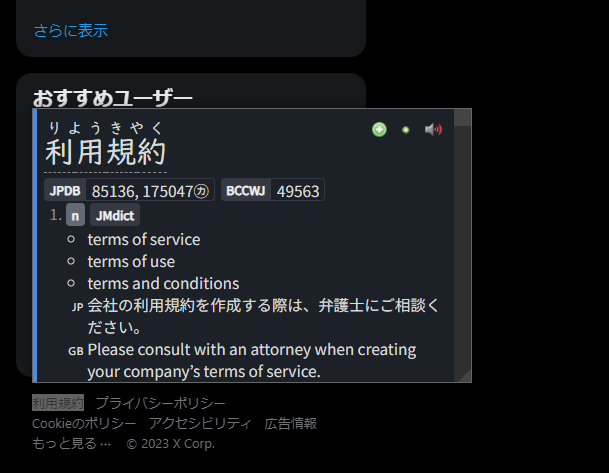
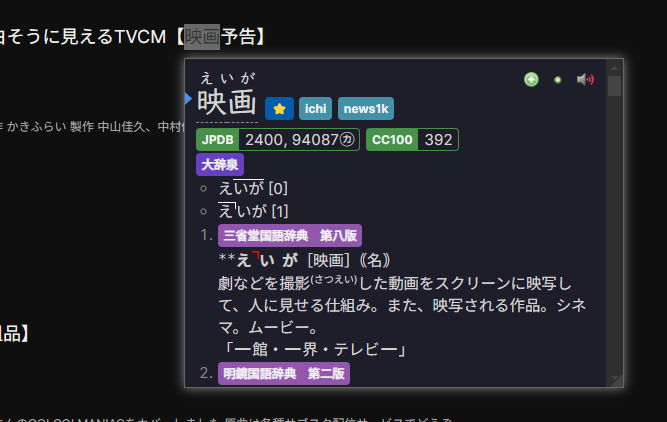
Update Yomitan appearance

diff --git a/README.md b/README.md
@@ -184,49 +184,21 @@ Just copy and paste the following CSS into Yomichan's custom CSS.
 
 ```css
 body {
-  font-family: "Noto Sans JP", sans-serif;
+  font-family: "Inter", "Noto Sans JP", sans-serif;
+  --background-color: #1e1e2a;
+  --input-background-color: color-mix(
+    in srgb,
+    var(--background-color),
+    #fff 5%
+  );
 }
 
 .headword {
-  font-family: "UD Digi Kyokasho N-R";
-}
-
-:root[data-theme="dark"] {
-  --text-color: #dadada;
-  --background-color: #1c2127;
-  --accent-color: #4c8ce6;
-  --accent-color-lighter: #3566ab;
-  --tag-pronunciation-dictionary-background-color: #353942;
-  --tag-dictionary-background-color: #353942;
-  --tag-frequency-background-color: #353942;
-  --tag-default-background-color: #636a72;
-  --tag-name-background-color: #636a72;
-  --tag-expression-background-color: #636a72;
-  --tag-popular-background-color: #1d4f96;
-  --tag-frequent-background-color: #3e6db0;
-  --tag-archaism-background-color: #533642;
-  --tag-part-of-speech-background-color: #636a72;
-  --input-background-color: #24292f;
-  --link-color: #79a9ec;
-}
-
-/* Fix quotes (https://aquafina-water-bottle.github.io/jp-mining-note/jpresources/#ensuring-properly-quotes-the-text) */
-.jp-quote-text {
-  text-indent: -1em;
-  padding-left: 1em;
-}
-
-/* Only show NHK pitch when アクセント辞典 doesn't have data */
-:not(ol[data-count="1"]) > li.pronunciation-group[data-dictionary="NHK"] {
-  display: none;
-}
-ol.pronunciation-group-list[data-count="2"] {
-  list-style: none;
-  padding: 0;
+  font-family: "UD Digi Kyokasho N";
 }
 
 /* Disable furigana on search page */
-ruby.query-parser-segment > rt.query-parser-segment-reading {
+rt.query-parser-segment-reading {
   display: none;
 }
 
@@ -262,6 +234,27 @@ ruby.query-parser-segment > rt.query-parser-segment-reading {
   content: " | ";
 }
 
+/* Collapse Jitendex entries */
+.definition-item[data-dictionary*="Jitendex"] .gloss-sc-ul {
+  list-style: none;
+  display: inline;
+  padding-left: 0;
+}
+.definition-item[data-dictionary*="Jitendex"] .gloss-sc-ul > .gloss-sc-li {
+  display: inline;
+}
+.definition-item[data-dictionary*="Jitendex"]
+  .gloss-sc-ul
+  > .gloss-sc-li:not(:last-child)::after {
+  content: "; ";
+}
+
+/* Make Jitendex example sentences smaller */
+.definition-item[data-dictionary*="Jitendex"]
+  *[data-sc-content="example-sentence-a"] {
+  font-size: 1em !important;
+}
+
 /* Only show summary for Pixiv */
 [data-sc-pixiv="children"],
 [data-sc-pixiv="related-tags"],
@@ -270,13 +263,31 @@ ruby.query-parser-segment > rt.query-parser-segment-reading {
   display: none;
 }
 
-/* Only shows the first 2 frequency lists */
+/* Only show the first 2 frequency lists */
 span.frequency-group-item:nth-child(n + 3) {
   display: none;
 }
 /* Show on hover */
-span.frequency-group-item:first-child:hover ~ * {
+span.frequency-group-item:first-child:has(.tag-label:hover) ~ * {
   display: inline-block;
+}
+
+/* Only show the first pitch dictionary */
+li.pronunciation-group:first-child ~ * {
+  display: none;
+}
+ol.pronunciation-group-list:not([data-count="1"]) {
+  list-style: none;
+  padding: 0;
+}
+/* Show on hover */
+li.pronunciation-group:first-child:has(.tag:hover) ~ * {
+  display: inline-block;
+}
+
+/* Hide add duplicate */
+button.action-button[title="Add duplicate expression (Alt + E)"] {
+  display: none;
 }
 ```
 
